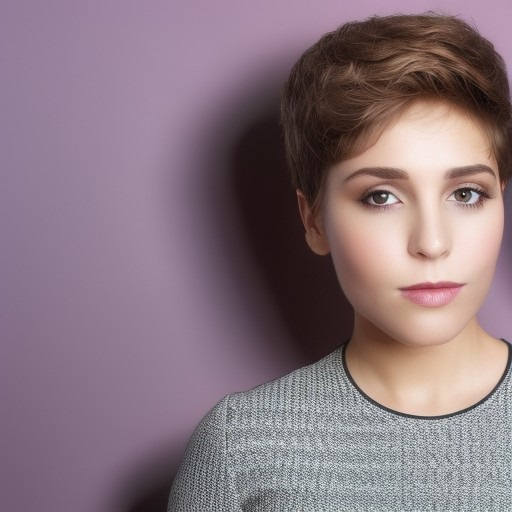
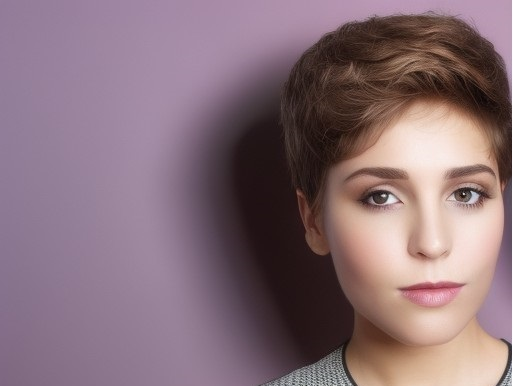
inclusão da foto de profile e texto sobre mim

diff --git a/index.html b/index.html
@@ -6,7 +6,7 @@
 -->
 <html>
   <head>
-    <title>Portifólio | Paula Wehdorn</title>
+    <title>Portfólio | Paula Wehdorn</title>
     <meta charset="utf-8" />
     <meta
       name="viewport"
@@ -23,25 +23,34 @@
           <!-- Header -->
           <header id="header">
             <a href="index.html" class="logo">
-              <strong>Portifólio de Projetos</strong> | Ciência de Dados</a>
+              <strong>Portfólio de Projetos</strong> | Ciência de Dados</a
+            >
             <ul class="icons">
-
               <li>
-                <a href="https://github.com/paulawehdorn/" target="_blank" 
-                class="icon brands fa-github">
-                  <span class="label">Github</span></a>
+                <a
+                  href="https://github.com/paulawehdorn/"
+                  target="_blank"
+                  class="icon brands fa-github"
+                >
+                  <span class="label">Github</span></a
+                >
               </li>
 
               <li>
-                <a href="https://www.linkedin.com/in/paulawehdorn/" target="_blank" class="icon brands fa-linkedin">
-                  <span class="label">LinkedIn</span></a>
+                <a
+                  href="https://www.linkedin.com/in/paulawehdorn/"
+                  target="_blank"
+                  class="icon brands fa-linkedin"
+                >
+                  <span class="label">LinkedIn</span></a
+                >
               </li>
 
               <li>
                 <a href="#" class="icon brands fa-xing-square">
-                  <span class="label">Xing</span></a>
+                  <span class="label">Xing</span></a
+                >
               </li>
-              
             </ul>
           </header>
 
@@ -54,13 +63,18 @@
                 </h1>
               </header>
               <p>
-                Aqui, você pode conferir minhas habilidades em resolver problemas de negócio com conceitos e ferramentas de Ciência de Dados.
+                Aqui, você pode conferir minhas habilidades em resolver
+                problemas de negócio com conceitos e ferramentas de Ciência de
+                Dados.
               </p>
               <p>
-                Você também encontrará informações sobre minhas experiências profissionais, habilidades e ferramentas envolvendo Ciência de Dados.
+                Você também encontrará informações sobre minhas experiências
+                profissionais, habilidades e ferramentas envolvendo Ciência de
+                Dados.
               </p>
               <p>
-                Entre em contato comigo através dos links no final da página. <br>
+                Entre em contato comigo através dos links no final da página.
+                <br />
                 Ficarei feliz em conversar com você.
               </p>
             </div>
@@ -76,34 +90,57 @@
             </header>
             <!-- Content -->
             <p>
-              Meu nome é Paula Wehdorn Wildemberg, sou formada em Ciência da computação e trabalho como Analista de Risco no mercado financeiro. 
-						</p>
-						<p></p>
-              Atualmente, trabalho na análise e seleção de ativos para carteira
-              de clientes de acordo com o seu perfil de investidor e trabalho
-              com projetos pessoais em Ciência de Dados, para adquirir
-              experiência na solução de problemas de negócio e domínio sobre as
-              ferramentas de análise de dados.
+              Acredito que tecnologia fornece as ferramentas, mas é a
+              criatividade que impulsiona os negócios.
+            </p>
+            <p>
+              Sou uma pessoa que valoriza muito a criatividade, empatia e
+              comunicação efetiva. Tenho facilidade para pensar fora da caixa e
+              encontrar soluções inovadoras para resolver problemas. Acredito
+              que minha capacidade de me conectar emocionalmente com outras
+              pessoas e entender suas necessidades e desejos é uma habilidade
+              valiosa ao conduzir entrevistas com as áreas de negócio e traduzir
+              suas necessidades para as áreas técnicas.
+            </p>
+            <p>
+              Sou consciente da minha adaptabilidade e versatilidade, que são
+              habilidades importantes em um campo como a ciência de dados, onde
+              novas tecnologias e desafios surgem constantemente. No entanto,
+              devo admitir que às vezes posso lutar contra a procrastinação,
+              pois é difícil me concentrar em tarefas pouco estimulantes. Mesmo
+              assim, me esforço constantemente para gerenciar meu tempo e
+              permanecer focada em tarefas importantes.
+            </p>
+            <p>
+              Em resumo, acredito que minhas qualidades, como criatividade,
+              empatia e comunicação persuasiva, juntamente com minha vontade de
+              aprender e me desenvolver, podem ser uma grande vantagem no campo
+              da ciência de dados. Estou animada para continuar a aprimorar
+              minhas habilidades técnicas em ciência de dados e outras áreas
+              relacionadas para resolver problemas e entregar soluções que geram
+              valor para o negócio.
             </p>
           </section>
 
           <!-- Habilidades -->
           <section>
-            <header class="major">
+            <header class="main">
               <h1>Habilidades</h1>
             </header>
             <div class="features">
-
               <article>
                 <span class="icon solid fa-code"></span>
                 <div class="content">
                   <h3>Linguagens de Programação e Banco de Dados</h3>
-									<ul>
-										<li>Python com foco em análise de dados;</li>
-										<li>SQL para extração de dados;</li>
-										<li>R para modelagem estatística;</li>
-										<li>Banco de Dados SQLite, Postres, MySQL, Oracle, MongoDB e Cassandra.</li>
-									</ul>
+                  <ul>
+                    <li>Python com foco em análise de dados;</li>
+                    <li>SQL para extração de dados;</li>
+                    <li>R para modelagem estatística;</li>
+                    <li>
+                      Banco de Dados SQLite, Postres, MySQL, Oracle, MongoDB e
+                      Cassandra.
+                    </li>
+                  </ul>
                 </div>
               </article>
 
@@ -111,13 +148,26 @@
                 <span class="icon solid fa-brain"></span>
                 <div class="content">
                   <h3>Estatística e Machine Learning</h3>
-									<ul>
-										<li>Estatística descritiva (localização, dispersão, assimetria, kurtosis, densidade);</li>
-										<li>Algoritmos de Regressão, classificação, clusterização e "learn to rank";</li>
-										<li>Técnicas de balanceamento dos dados, seleção de atributos e redução de dimensionalidade;</li>
-										<li>Métricas de performance dos algoritmos (RMSE, MAE, MAPE, Confusion Matrix, Precisão, Recall, Curva ROC, Curva Lift, AUC, Silhouette Score, DB-Index);</li>
+                  <ul>
+                    <li>
+                      Estatística descritiva (localização, dispersão,
+                      assimetria, kurtosis, densidade);
+                    </li>
+                    <li>
+                      Algoritmos de Regressão, classificação, clusterização e
+                      "learn to rank";
+                    </li>
+                    <li>
+                      Técnicas de balanceamento dos dados, seleção de atributos
+                      e redução de dimensionalidade;
+                    </li>
+                    <li>
+                      Métricas de performance dos algoritmos (RMSE, MAE, MAPE,
+                      Confusion Matrix, Precisão, Recall, Curva ROC, Curva Lift,
+                      AUC, Silhouette Score, DB-Index);
+                    </li>
                     <li>Pacotes de Machine Learning: Sklearn e Scipy.</li>
-									</ul>
+                  </ul>
                 </div>
               </article>
 
@@ -125,10 +175,10 @@
                 <span class="icon solid fa-chart-line"></span>
                 <div class="content">
                   <h3>Visualização de Dados</h3>
-									<ul>
-										<li>Matplotlib, Seaborn, Plotly e Bokeh;</li>
-										<li>Power BI, Tableau, Metabase e Looker.</li>
-									</ul>
+                  <ul>
+                    <li>Matplotlib, Seaborn, Plotly e Bokeh;</li>
+                    <li>Power BI, Tableau, Metabase e Looker.</li>
+                  </ul>
                 </div>
               </article>
 
@@ -136,33 +186,64 @@
                 <span class="icon solid fa-wrench"></span>
                 <div class="content">
                   <h3>Engenharia de Software</h3>
-									<ul>
-										<li>Git, Github, Gitlab, Cookiecutter, Virtual Environment e Docker;</li>
-										<li>Streamlit, Flask, Python API's;</li>
-										<li>Cloud Heroku, AWS Amazon, Google Cloud Platform (GCP) e Azure.</li>
-									</ul>
+                  <ul>
+                    <li>
+                      Git, Github, Gitlab, Cookiecutter, Virtual Environment e
+                      Docker;
+                    </li>
+                    <li>Streamlit, Flask, Python API's;</li>
+                    <li>
+                      Cloud Heroku, AWS Amazon, Google Cloud Platform (GCP) e
+                      Azure.
+                    </li>
+                  </ul>
                 </div>
               </article>
-
             </div>
           </section>
 
-					<!-- Experiências -->
-					<section>
-						<header class="main">
-							<h1>Experiências profissionais</h1>
-						</header>
-						<!-- Content -->
-						<h2 id="content">Sample Content</h2>
-						<p>Praesent ac adipiscing ullamcorper semper ut amet ac risus. Lorem sapien ut odio odio nunc. Ac adipiscing nibh porttitor erat risus justo adipiscing adipiscing amet placerat accumsan. Vis. Faucibus odio magna tempus adipiscing a non. In mi primis arcu ut non accumsan vivamus ac blandit adipiscing adipiscing arcu metus praesent turpis eu ac lacinia nunc ac commodo gravida adipiscing eget accumsan ac nunc adipiscing adipiscing lorem ipsum dolor sit amet nullam veroeros adipiscing.</p>
+          <!-- Experiências -->
+          <section>
+            <header class="main">
+              <h1>Experiências profissionais</h1>
+            </header>
+            <!-- Content -->
+            <h2 id="content">Sample Content</h2>
+            <p>
+              Praesent ac adipiscing ullamcorper semper ut amet ac risus. Lorem
+              sapien ut odio odio nunc. Ac adipiscing nibh porttitor erat risus
+              justo adipiscing adipiscing amet placerat accumsan. Vis. Faucibus
+              odio magna tempus adipiscing a non. In mi primis arcu ut non
+              accumsan vivamus ac blandit adipiscing adipiscing arcu metus
+              praesent turpis eu ac lacinia nunc ac commodo gravida adipiscing
+              eget accumsan ac nunc adipiscing adipiscing lorem ipsum dolor sit
+              amet nullam veroeros adipiscing.
+            </p>
 
- 						<h2 id="content">Sample Content</h2>
-						<p>Praesent ac adipiscing ullamcorper semper ut amet ac risus. Lorem sapien ut odio odio nunc. Ac adipiscing nibh porttitor erat risus justo adipiscing adipiscing amet placerat accumsan. Vis. Faucibus odio magna tempus adipiscing a non. In mi primis arcu ut non accumsan vivamus ac blandit adipiscing adipiscing arcu metus praesent turpis eu ac lacinia nunc ac commodo gravida adipiscing eget accumsan ac nunc adipiscing adipiscing lorem ipsum dolor sit amet nullam veroeros adipiscing.</p>
+            <h2 id="content">Sample Content</h2>
+            <p>
+              Praesent ac adipiscing ullamcorper semper ut amet ac risus. Lorem
+              sapien ut odio odio nunc. Ac adipiscing nibh porttitor erat risus
+              justo adipiscing adipiscing amet placerat accumsan. Vis. Faucibus
+              odio magna tempus adipiscing a non. In mi primis arcu ut non
+              accumsan vivamus ac blandit adipiscing adipiscing arcu metus
+              praesent turpis eu ac lacinia nunc ac commodo gravida adipiscing
+              eget accumsan ac nunc adipiscing adipiscing lorem ipsum dolor sit
+              amet nullam veroeros adipiscing.
+            </p>
 
-						<h2 id="content">Sample Content</h2>
-						<p>Praesent ac adipiscing ullamcorper semper ut amet ac risus. Lorem sapien ut odio odio nunc. Ac adipiscing nibh porttitor erat risus justo adipiscing adipiscing amet placerat accumsan. Vis. Faucibus odio magna tempus adipiscing a non. In mi primis arcu ut non accumsan vivamus ac blandit adipiscing adipiscing arcu metus praesent turpis eu ac lacinia nunc ac commodo gravida adipiscing eget accumsan ac nunc adipiscing adipiscing lorem ipsum dolor sit amet nullam veroeros adipiscing.</p>
-
-					</section>
+            <h2 id="content">Sample Content</h2>
+            <p>
+              Praesent ac adipiscing ullamcorper semper ut amet ac risus. Lorem
+              sapien ut odio odio nunc. Ac adipiscing nibh porttitor erat risus
+              justo adipiscing adipiscing amet placerat accumsan. Vis. Faucibus
+              odio magna tempus adipiscing a non. In mi primis arcu ut non
+              accumsan vivamus ac blandit adipiscing adipiscing arcu metus
+              praesent turpis eu ac lacinia nunc ac commodo gravida adipiscing
+              eget accumsan ac nunc adipiscing adipiscing lorem ipsum dolor sit
+              amet nullam veroeros adipiscing.
+            </p>
+          </section>
 
           <!-- Projetos -->
           <section>
@@ -170,7 +251,6 @@
               <h1>Projetos em Ciência de Dados</h1>
             </header>
             <div class="posts">
-
               <article>
                 <a href="#" class="image"
                   ><img src="images/pic01.jpg" alt=""
@@ -188,17 +268,19 @@
                   o resultado dessa solução, caso fosse implementada, seria de
                   R$ 15MM de dólares de receita anual.
                 </p>
-								<h4>As ferramentas utilizadas foram:</h4>
-								<ul>
-									<li>Git, Gitlab e Github;</li>
-									<li>Python, Pandas, Matplotlib e Seaborn;</li>
-									<li>Jupyter Notebook;</li>
-									<li>K-Means, Hierarquical Clustering, DBScan;</li>
-									<li>AWS Cloud (EC2, S3, Postgres, SQLite);</li>
-									<li>Metabase Visualization.</li>
-								</ul>
+                <h4>As ferramentas utilizadas foram:</h4>
+                <ul>
+                  <li>Git, Gitlab e Github;</li>
+                  <li>Python, Pandas, Matplotlib e Seaborn;</li>
+                  <li>Jupyter Notebook;</li>
+                  <li>K-Means, Hierarquical Clustering, DBScan;</li>
+                  <li>AWS Cloud (EC2, S3, Postgres, SQLite);</li>
+                  <li>Metabase Visualization.</li>
+                </ul>
                 <ul class="actions">
-                  <li><a href="#" target="_blank" class="button">Saiba mais</a></li>
+                  <li>
+                    <a href="#" target="_blank" class="button">Saiba mais</a>
+                  </li>
                 </ul>
               </article>
 
@@ -215,19 +297,20 @@
                   definição do preço ideal de revenda, a partir de uma análise
                   exploratória de dados em Python
                 </p>
-								<h4>As ferramentas utilizadas foram:</h4>
-								<ul>
-									<li>Python, Pandas, Numpy e Seaborn;</li>
-									<li>Anaconda, Pycharm e Jupyter Notebook;</li>
-									<li>Mapas interativos com Plotly e Folium;</li>
-									<li>Heroku Cloud;</li>
-									<li>Streamlit Python framework web.</li>
-								</ul>
+                <h4>As ferramentas utilizadas foram:</h4>
+                <ul>
+                  <li>Python, Pandas, Numpy e Seaborn;</li>
+                  <li>Anaconda, Pycharm e Jupyter Notebook;</li>
+                  <li>Mapas interativos com Plotly e Folium;</li>
+                  <li>Heroku Cloud;</li>
+                  <li>Streamlit Python framework web.</li>
+                </ul>
                 <ul class="actions">
-                  <li><a href="#" target="_blank" class="button">Saiba mais</a></li>
+                  <li>
+                    <a href="#" target="_blank" class="button">Saiba mais</a>
+                  </li>
                 </ul>
               </article>
-
             </div>
           </section>
 
@@ -236,25 +319,23 @@
             <header class="major">
               <h2>Entre em contato</h2>
             </header>
-            <p>
-							Sinta-se à vontade para entrar em contato:
-            </p>
+            <p>Sinta-se à vontade para entrar em contato:</p>
             <ul class="contact">
-
               <li class="icon solid fa-envelope">
                 <a href="#">paulawehdorn@gmail.com</a>
               </li>
 
               <li class="icon brands fa-linkedin">
-								<a href="https://www.linkedin.com/in/paulawehdorn/" target="_blank">LinkedIn</a>
-							</li>
-
+                <a
+                  href="https://www.linkedin.com/in/paulawehdorn/"
+                  target="_blank"
+                  >LinkedIn</a
+                >
+              </li>
             </ul>
           </section>
- 
         </div>
       </div>
-
     </div>
 
     <!-- Scripts -->
